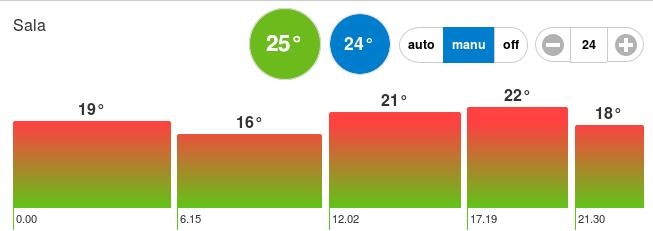
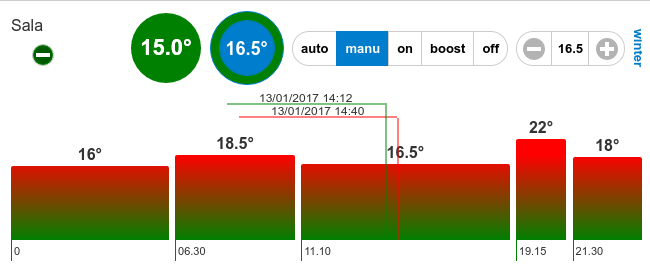
0.9.8-1

diff --git a/app/ct.html b/app/ct.html
@@ -34,11 +34,12 @@
             <div data-role="controlgroup" data-type="horizontal" data-mini="true" data-enhanced="true" class="button-control ui-controlgroup ui-controlgroup-horizontal ui-corner-all ui-mini no-carousel-slide">
               <div class="timeoutgruppo ui-controlgroup-controls">
                 <a class="ui-first-child ui-btn ui-corner-all" name="add1m" data-bind="click: somma1m">+1min</a>
-                <a class="ui-btn ui-corner-all" name="add5m" data-bind="click: somma5m">+5min</a>
-                <a class="ui-btn ui-corner-all" name="add30m" data-bind="click: somma30m">+30min</a>
-                <a class="ui-btn ui-corner-all" name="add1h" data-bind="click: somma1h">+1h</a>
-                <a class="ui-btn ui-corner-all" name="add1d" data-bind="click: somma1d">+1d</a>
-                <a class="ui-btn ui-corner-all" name="add1h" data-bind="click: sommaFinoAFineGiornata">EoD</a>
+                <a class="ui-btn ui-corner-all" data-bind="click: somma5m">+5min</a>
+                <a class="ui-btn ui-corner-all" data-bind="click: somma30m">+30min</a>
+                <a class="ui-btn ui-corner-all" data-bind="click: somma1h">+1h</a>
+                <a class="ui-btn ui-corner-all" data-bind="click: somma1d">+1d</a>
+                <a class="ui-btn ui-corner-all" data-bind="click: sommaFinoAFineGiornata">EoD</a>
+                <a class="ui-btn ui-corner-all" data-bind="click: sommaFinoAFineSchedule">EoS</a>
                 <a class="ui-last-child ui-btn ui-corner-all" name="always" data-bind="click: timeoutalways">Always</a>
               </div>
               <div class="timeoutgruppo ui-controlgroup-controls">

diff --git a/README.md b/README.md
@@ -41,17 +41,17 @@ In pimatic started by creating a variable named $di1
 The variable is to be filled in this way…
 
 Example:
-- ***1***,0,10,12.00,25
+- ***1***,00:00,10,12:00,25
 
 ***1*** the number equivalent to the day of the week that this will make the programming of the following numbers (hours).
 In this case monday ( 1 is monday, 2 is Tuesday, 3 is Wednesday… 7 is Sunday)
 
 Subsequent numbers are respectively the hours followed by the temperature in that time.
-- 1,***0***,*10*,12.00,25
+- 1,***00:00***,*10*,12:00,25
 
 At **midnight** (the second number between commas is 0) sets the temperature at *10* grades(the third number between commas is 10) and then the plugin sets the variable $ ID.result = 10
 
-- 1,0,10,***12.00***,*25*
+- 1,0,10,***12:00***,*25*
 
 At ***noon*** sets the temperature to *25* grades ($ ID.result = 25)
 
@@ -59,9 +59,9 @@ You can add as many hours as you want with respective temperature,
 important is that the first number of hours is always 0 (midnight)
 
 Example:
-- 1,0,15,8.20,18,12.00,22,15.30,25
+- 1,00:00,15,08:20,18,12:00,22,15:30,25
 
-Mondays from midnight 15° then at 8.20 18°,at 12.00 22° and at 15.30 25°
+Mondays from midnight 15° then at 08:20 18°,at 12:00 22° and at 15:30 25°
 
 If you want the same program will be repeated for other days
 just enter the day number of the week in the first number before the comma
@@ -108,6 +108,7 @@ When the ***realtime temperature*** is greater then the ***result*** of the sche
 ```
 A button will appear in the 'interface which, when pressed, will set the "mode" to "boost"
 
+
 ###Rule to work with Pimatic
 
 To set the temperature of you thermostat, you have to set a rule like this:
@@ -117,14 +118,20 @@ $room.result --> is the actually SetPoint of your ChronoThermDevice
 ```
 when $room.result changes then set temp of Thermostat to $room.result
 ```
-or
+To enable your thermostat
 ```
 $room.valve --> is the on/off of your ChronoThermDevice
 ```
 ```
-when $room.valve is true then set Thermostat to ON else OFF
+valve of room is true then set YOUR_THERMOSTAT to ON
 ```
-
+To set the temperature to 10° in manualmode for 2 hours(120min)( after 2 hour turn back to schedule in automatic) after you click on a dummy-switch
+```
+if dummy-switch is turned on then set temp of ROOM to 10 and set mode of ROOM to "manu" and set minute to automode of ROOM to 120
+```
+TRICK:
+If you want to set from rule the min to automode to End of Day, set minute to automode to 0.307
+If you want to set from rule the min to automode to End of Schedule, set minute to automode to 0.305
 ###WEB INTERFACE
 
 ***Plus Button*** open graph interface
@@ -148,9 +155,29 @@ When the border of ***The blue circle*** is ***white*** the valve variable is fa
 ***OFF*** will set the supposed temperature to ***"offtemperature"***
 
 Once click to ***Manu***,***On***,***Off*** It will be asked how long you should be active that function
-Buttons What appear are respectively: add 1 minute, add 5 minutes, add 30 minutes, add 1 hour, add 1 day, add minute to the end of the day and ALWAYS
+Buttons What appear are respectively: add 1 minute, add 5 minutes, add 30 minutes, add 1 hour, add 1 day, add minute to the End Of the Day(***EOD***), add minutes to the end of the schedule(***EOS***) and ALWAYS
 
 ***winter or summer*** show the season current
+
+
+
+
+### API
+To set mode from API
+  http://host:port/api/device/ROOM/changeModeTo?mode=MODE
+    ROOM = Id of the room
+    MODE = auto, manu, on, off
+To set mintoautomode
+  http://host:port/api/device/ROOM/changeMinToAutoModeTo?mintoautomode=XXX
+    XXX = minute tu turn to automode(Normal schedule)
+  TRICK:  if you want to set mintoautomode to End of Day, XXX = 0.307
+          if you want to set mintoautomode to End of Schedule, XXX = 0.305
+To set season
+  http://host:port/api/device/ROOM/changeSeasonTo?season=SEASON
+    SEASON = winter, summer
+To change manual temperature
+  http://host:port/api/device/ROOM/changeTemperatureTo?manuTemp=TEMPERATURE
+
 
 ###EXAMPLE 1
 ```
@@ -162,20 +189,20 @@ Buttons What appear are respectively: add 1 minute, add 5 minutes, add 30 minute
   "cas6Ref": "$di3",
   "cas7Ref": "$di3",
 ```
-- $di1=123456,0,19,12.02,21,21.30,18
-- $di2=7,0,18,11,4,17.50,22
+- $di1=123456,0,19,12:02,21,21:30,18
+- $di2=7,0,18,11:00,4,17:50,22
 - $di3=0
 
 so…variable =
 * $di1 = Monday Tuesday Wednesday Thursday Friday Saturday
   * at midnight -> 19°,
-  * at 12.02 -> 21°
-  * and from 21.30 to 23.59 -> 18°
+  * at 12:02 -> 21°
+  * and from 21:30 to 23:59 -> 18°
 variable =
 * $di2 = Sunday
   * at midnight -> 18°,
-  * at 11.00 -> 4°
-  * and from 17.50 to 23.59 -> 22°
+  * at 11:00 -> 4°
+  * and from 17:50 to 23:59 -> 22°
 
 All the day of the week are in these two variables then i do not need more variable then i close all assigning all the other variables to $di3 ($di3=0)
 
@@ -191,13 +218,13 @@ The important thing is that every day of the week are included in the first numb
   "cas6Ref": "$di6",
   "cas7Ref": "$di7",
 ```
-- $di1=1,0,19,14,21,21.30,18
-- $di2=2,0,13,12.02,21,21.30,18
-- $di3=3,0,19,11,21,21.30,18
-- $di4=4,0,11,15,21,21.30,18
-- $di5=5,0,19,12.02,21,21.30,18
-- $di6=6,0,18,11,4,17.50,22
-- $di7=7,0,20,16,17
+- $di1=1,00:00,19,14:00,21,21:30,18
+- $di2=2,00:00,13,12:02,21,21:30,18
+- $di3=3,00:00,19,11:00,21,21:30,18
+- $di4=4,00:00,11,15:00,21,21:30,18
+- $di5=5,00:00,19,12:02,21,21:30,18
+- $di6=6,00:00,18,11:00,4,17:50,22
+- $di7=7,00:00,20,16:00,17
 
 In this case all the variables are different because all the days are differents
 
@@ -238,6 +265,6 @@ The rules are the same but, instead of entering temperatures, are entered 0 for 
   "cas6Ref": "$di3",
   "cas7Ref": "$di3",
 ```
-- $di1=123456,0,***1***,12.02,***0***,21.30,***1***
-- $di2=7,0,***1***,11,***0***,17.50,***1***
+- $di1=123456,00:00,***1***,12:02,***0***,21:30,***1***
+- $di2=7,00:00,***1***,11:00,***0***,17:50,***1***
 - $di3=0
